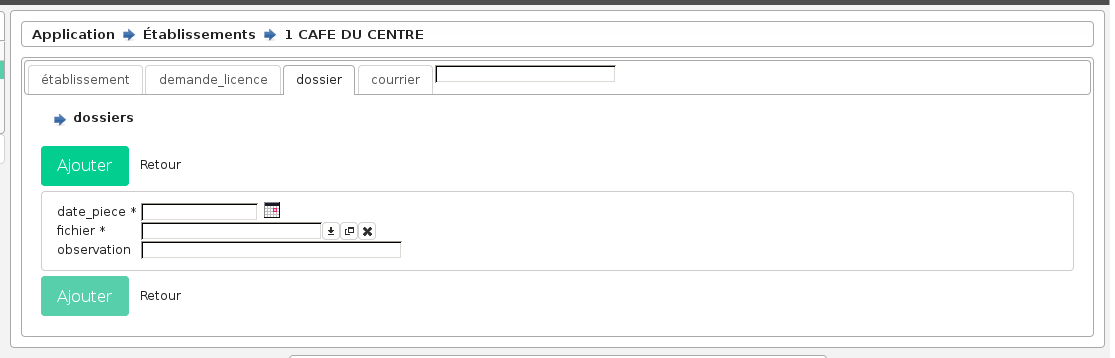
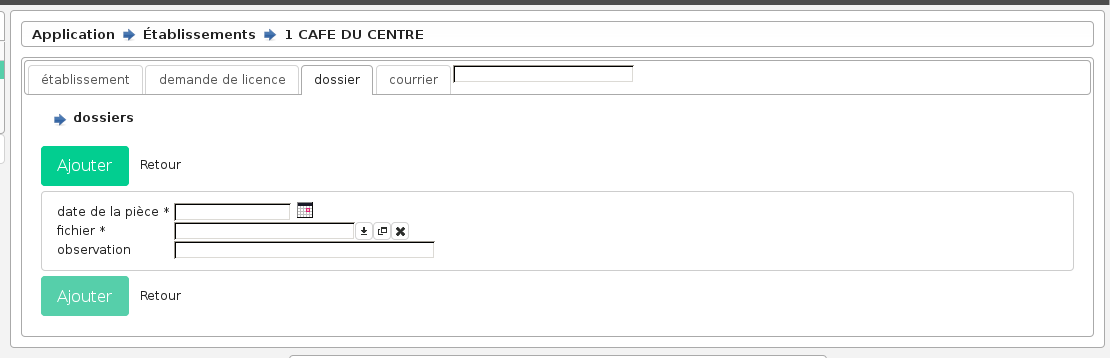
Mise à jour des captures d'écran automatisées & ajout de rubriques dans administration

diff --git a/source/manuel_utilisateur/administration/index.rst b/source/manuel_utilisateur/administration/index.rst
@@ -20,6 +20,9 @@ Dans ce paragraphe il est décrit les principaux éléments pour le manuel utili
 https://docs.openmairie.org/?project=framework&version=4.9&format=html&path=usage/administration
 
 
+.. contents::
+
+
 *****************
 Termes de licence
 *****************
@@ -48,9 +51,9 @@ De base ils peuvent être :
 • " DE MUTATION ".
 
 
-***************************
-Saisie des " Type_licence "
-***************************
+*****************
+Types de licences
+*****************
 
 paramétrage => Type_licence
 
@@ -68,5 +71,37 @@ De base ils peuvent être :
 • " grande à emportée ".
 • " petite restauration ".
 • " grande restauration ".
+
+
+
+*****************
+Adresses postales
+*****************
+
+
+******
+Rivoli
+******
+
+
+******************
+Titres de civilité
+******************
+
+
+************************
+Qualités de l'exploitant
+************************
+
+
+*********************
+Statuts de la demande
+*********************
+
+
+
+**********************
+Types d'établissements
+**********************
 
 
